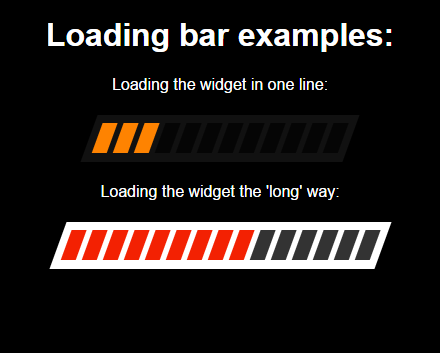
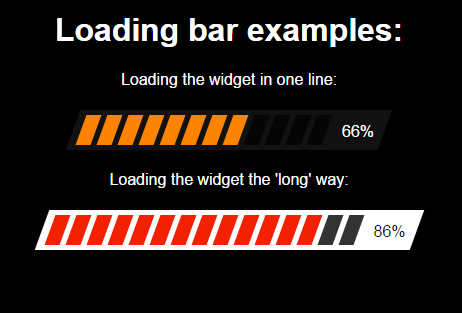
Add optional percentage displays and advance methos

diff --git a/examples/example1/js/loading-bar.js b/examples/example1/js/loading-bar.js
@@ -6,14 +6,21 @@
 	function LoadingBar(options) {
 		this.maxBars = options.maxBars || 12;
 		this.loadingBarHTML = '<div class="loading-bar">';
-		for (var i = 0; i < this.maxBars; i++)
+		for (let i = 0; i < this.maxBars; i++)
 			this.loadingBarHTML += '<div class="bar"></div>';
+		if (options.showPercentage === true)
+			this.loadingBarHTML += '<div class="percentage-container"><div id="percentage">0%</div></div>';
+		this.percentage = 0;
 		this.loadingBarHTML += '</div>';
+
 
 		this.loadingBars = {};
 		this.barsLoaded = 0;
 		this.loadIntoDiv(options.div);
+		if (options.showPercentage === true)
+			this.percentageDisplay = document.getElementById('percentage');
 		this.initializeStyle(options.style);
+		return this;
 	}
 
 	// Styles the widget
@@ -25,12 +32,15 @@
 			// set the bar color
 			this.widget.barFilledColor = style.barFilledColor || '#FE8301';
 			this.widget.barEmptyColor  = style.barEmptyColor  || '#050505';
+			// set the percentage text color
+			this.widget.percentageColor = style.percentageColor || '#FFFFFF';
 
 		} else { // the user didn't provide his own style
 			// default all colors
-			this.widget.barFilledColor = '#FE8301';
-			this.widget.barEmptyColor  = '#050505';
-			this.widget.containerColor = '#111111';
+			this.widget.barFilledColor  = '#FE8301';
+			this.widget.barEmptyColor   = '#050505';
+			this.widget.containerColor  = '#111111';
+			this.widget.percentageColor = '#FFFFFF';
 		}
 
 		this.applyStyles();
@@ -40,7 +50,8 @@
 	// Applies all the styles
 	LoadingBar.prototype.applyStyles = function() {
 		this.widget.style.backgroundColor = this.widget.containerColor;
-
+		if (this.percentageDisplay !== undefined)
+			this.percentageDisplay.style.color = this.widget.percentageColor;
 		this.resetBars();
 	};
 
@@ -76,22 +87,82 @@
 		var barsLoaded = this.barsLoaded;
 		var maxBars = this.maxBars;
 		var self = this;
+		var displayPercentage = (this.percentageDisplay !== undefined);
 		var barFilledColor = this.widget.barFilledColor;
 		setInterval(function() {
 			if (barsLoaded >= maxBars) {
 				barsLoaded = 0;
 				self.resetBars();
+				this.percentage = 0;
+				self.updatePercentage(barsLoaded);
 				return;
 			}
 			self.loadingBars[barsLoaded].style.backgroundColor = barFilledColor;
+
 			barsLoaded++;
+
+			if (displayPercentage)
+				self.updatePercentage(barsLoaded);
+			
 		}, speed || 100);
+	};
+
+	// Advance the loading by a given percentage
+	LoadingBar.prototype.advanceByPercentage = function(percent) {
+		if (this.barsLoaded <= this.maxBars) {
+			this.barsLoaded += ~~(this.maxBars * percent); // Using the bitwise NOT operator to convert to int
+
+			if (this.barsLoaded >= this.maxBars)
+				this.barsLoaded = this.maxBars;
+
+			// Fill affected bars
+			this.fillBars();
+
+			// Update the percentage display
+			if (this.percentageDisplay !== undefined)
+				this.updatePercentage(this.barsLoaded);
+		}
+		return this;
+	};
+
+	// Advance the loading by a given number of bars
+	LoadingBar.prototype.advanceBy = function(barsNumber) {
+		if (this.barsLoaded <= this.maxBars) {
+			this.barsLoaded += barsNumber;
+
+			if (this.barsLoaded >= this.maxBars)
+				this.barsLoaded = this.maxBars;
+
+			// Fill affected bars
+			this.fillBars();
+
+			// Update the percentage display
+			if (this.percentageDisplay !== undefined)
+				this.updatePercentage(this.barsLoaded);
+		}
+		return this;
+	};
+
+	LoadingBar.prototype.fillBars = function(percent) {
+		for (let i = 0; i < this.barsLoaded; i++) {
+			this.loadingBars[i].style.backgroundColor = this.widget.barFilledColor;
+		}
+	};
+	
+	// Update the percentage text
+	LoadingBar.prototype.updatePercentage = function(barsLoaded) {
+		if (barsLoaded > this.maxBars)
+			this.percentage = 0;
+		else
+			// Using the bitwise NOT operator to convert to int
+			this.percentage = ~~((barsLoaded / this.maxBars) * 100);
+		this.percentageDisplay.innerHTML = this.percentage + '%';
 	};
 
 	// Sets the colors of all the bars to black
 	LoadingBar.prototype.resetBars = function() {
 		var emptyColor = this.widget.barEmptyColor;
-		for (var i = 0; i < this.maxBars; i++) {
+		for (let i = 0; i < this.maxBars; i++) {
 			this.loadingBars[i].style.backgroundColor = emptyColor;
 		}
 	};

diff --git a/examples/example1/index.html b/examples/example1/index.html
@@ -47,19 +47,34 @@
 			style: {
 				barFilledColor: '#f32102',
 				barEmptyColor: '#333',
-				containerColor: 'white'
-			}
-		}).animate(50);// the default is 100 ms
+				containerColor: 'white',
+				percentageColor: 'black'
+			},
+			showPercentage: true
+		}).animate(500);// the default is 100 ms
 		
 		// Long way
 		var widgetDiv = document.getElementById('loading-bar1');
 		var options = {
 			div: widgetDiv,
-			maxBars: 12
+			maxBars: 12,
+			showPercentage: true
 		};
 		var loadingBar = new LoadingBar(options);
 		loadingBar.animate(); // the default is 100 ms
 
+		// var loadingBar2 = new LoadingBar({
+		// 	div: $('#loading-bar2'),
+		// 	maxBars: 14,
+		// 	style: {
+		// 		barFilledColor: '#f32102',
+		// 		barEmptyColor: '#333',
+		// 		containerColor: 'white',
+		// 		percentageColor: 'black'
+		// 	},
+		// 	showPercentage: true
+		// }).advanceByPercentage(0.5);// the default is 100 ms
+		// loadingBar2.advanceBy(1);
 	</script>
 
 </body>

diff --git a/examples/example1/css/loading-bar.css b/examples/example1/css/loading-bar.css
@@ -2,7 +2,7 @@
 
 .loading-bar {
 	display: inline-block;
-	padding: 5px;
+	padding: 5px 5px 1px 5px;
 	margin: 5px 0;
 	background-color: #111;
 	
@@ -18,6 +18,25 @@
 	height: 30px;
 	width: 15px;
 	margin: 0 3px;
-	margin-top: 3px;
 	background-color: #050505;
+}
+
+.loading-bar .percentage-container {
+    display: inline-block;
+    width: 50px;
+	height: 30px;
+	-webkit-transform: skewX(20deg);
+    -moz-transform: skewX(20deg);
+    -ms-transform: skewX(20deg);
+    -o-transform: skewX(20deg);
+    transform: skewX(20deg);
+}
+
+.loading-bar .percentage-container #percentage {
+	position: absolute;
+	text-align: center;
+	width: 3em;
+	left: 1px;
+    display: inline-block;
+    margin: 8px 3px;
 }
